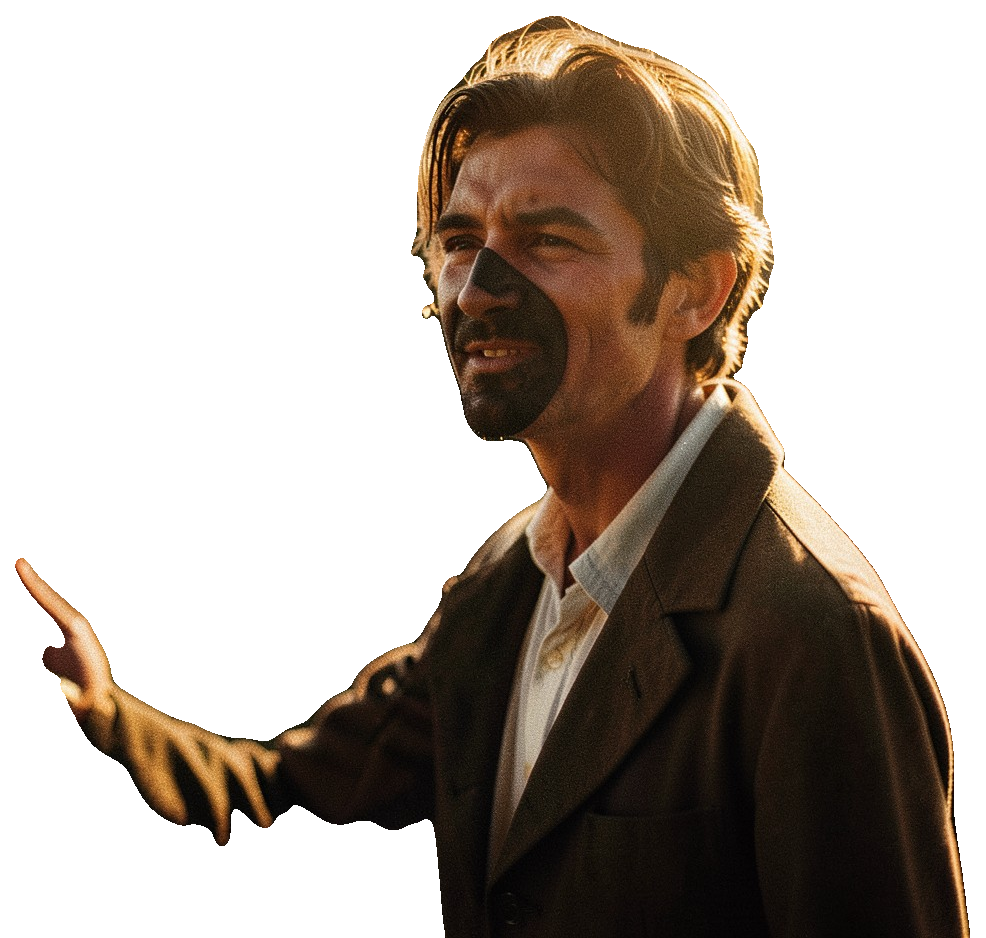
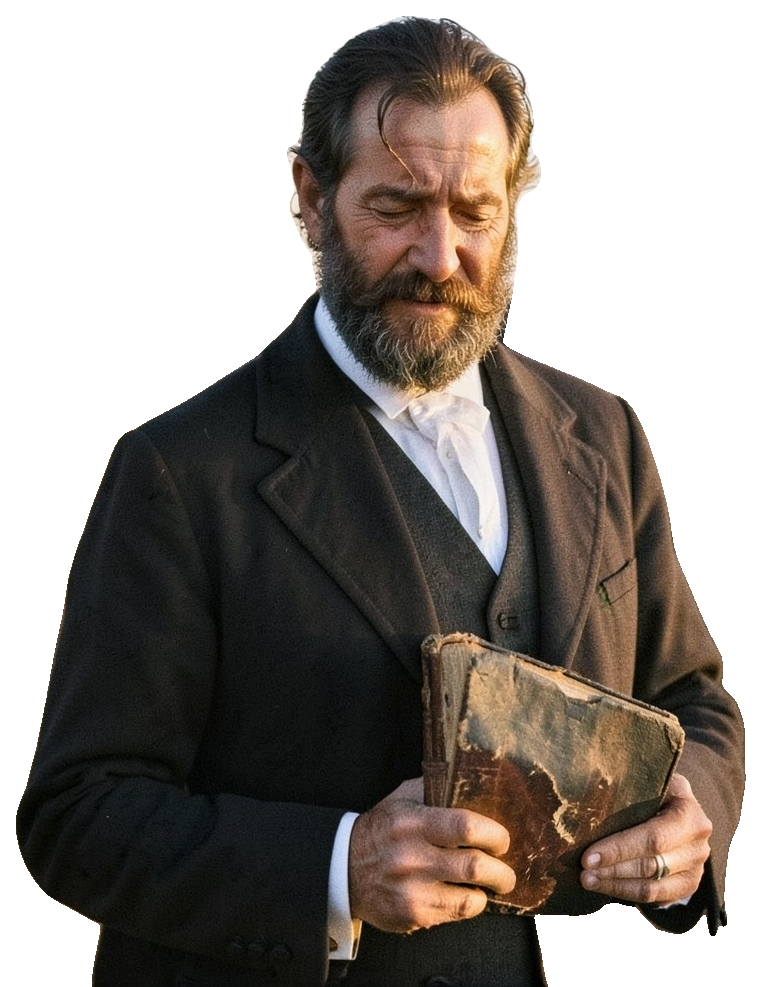
fix(march): book-specific thumbnail; make step 8 survive a busy machine
Thumbnail was generated from the mojibake'd generic fallback subject, so the hero was
an off-book modern figure, rembg blew a black hole through its face, and the
two-subject-vs layout mirrored that into a duplicate. Rewrote the subject for the book
(1860s frock coat + worn book, war words removed - "battlefield aftermath" was
CONTENT_FILTERED 4/4 by Flux), pinned layout=portrait-right for a single figure, and
set the hook to CERTAINTY HAS A PRICE (the fallback was "MARCH BROOKS": the title, not
a hook).

make-book step 8 now runs with --puppeteer-timeout=120000 and step() takes a bounded
`retries`. The default 25s browser launch times out on this GPU-less box under load,
and step 8 is optional:true - so an unattended run silently shipped no thumbnail at
all. That is exactly what happened here.

March is YOUTUBE-READY: out/march.mp4 35.2min, verified; pack complete.

diff --git a/scripts/make-book.js b/scripts/make-book.js
@@ -166,19 +166,31 @@ if (ENGINE === "antidote") {
 const CFG = rel.voxConfig(SLUG);
 const META = rel.youtubeMeta(SLUG);
 
-function step(n, label, cmd, { optional = false } = {}) {
+function step(n, label, cmd, { optional = false, retries = 0 } = {}) {
   console.log(`\n── [${n}] ${label}`);
   console.log(`   $ ${cmd}`);
-  try {
-    execSync(cmd, { cwd: ROOT, stdio: "inherit" });
-    return true;
-  } catch (e) {
-    if (optional) {
-      console.warn(`   ⚠ atlandı (hata): ${label}`);
-      return false;
+  for (let attempt = 1; ; attempt++) {
+    try {
+      execSync(cmd, { cwd: ROOT, stdio: "inherit" });
+      return true;
+    } catch (e) {
+      // `retries` is for steps that fail for TRANSIENT reasons, not wrong input —
+      // chiefly the Remotion browser launch, which times out when the machine is
+      // busy (this box is GPU-less and often has a Studio/dev server up). Retrying
+      // is the difference between an unattended run producing the thumbnail and
+      // silently skipping it.
+      if (attempt <= retries) {
+        console.warn(`   ⚠ başarısız — ${attempt}/${retries} yeniden deneniyor (10s)...`);
+        Atomics.wait(new Int32Array(new SharedArrayBuffer(4)), 0, 0, 10000);
+        continue;
+      }
+      if (optional) {
+        console.warn(`   ⚠ atlandı (hata): ${label}`);
+        return false;
+      }
+      console.error(`\n❌ ADIM BAŞARISIZ: ${label}`);
+      process.exit(1);
     }
-    console.error(`\n❌ ADIM BAŞARISIZ: ${label}`);
-    process.exit(1);
   }
 }
 
@@ -259,8 +271,11 @@ step(7, "Kompozisyon kaydı", `node scripts/gen-books-registry.js`);
 
 // 8) composite thumbnail PNG (local still; NO --gl=angle — that flag times out the
 //    browser launch on this GPU-less machine). Needs Thumb-<slug> from step 7.
+//    --puppeteer-timeout: the default 25s browser launch times out on this GPU-less
+//    machine whenever it is under load (a Studio/dev server up, or a render finishing),
+//    which silently skipped the thumbnail. 120s + 2 retries makes it survive that.
 const THUMB_PNG = `out/thumbnail-${SLUG}.png`;
-step(8, "Thumbnail PNG (Remotion still)", `npx remotion still Thumb-${SLUG} ${THUMB_PNG} --frame=0`, { optional: true });
+step(8, "Thumbnail PNG (Remotion still)", `npx remotion still Thumb-${SLUG} ${THUMB_PNG} --frame=0 --puppeteer-timeout=120000`, { optional: true, retries: 2 });
 
 // 9) per-book hub index (books/<slug>/README.md linking every deliverable)
 step(9, "Kitap hub index (books/<slug>/README.md)", `node scripts/gen-book-readme.js ${SLUG}`, { optional: true });

diff --git a/AGENT_LOG.md b/AGENT_LOG.md
@@ -21,7 +21,7 @@ Conventions:
 |---|---|---|---|
 | worker-orchestrator | `scripts/render.js` (multi-worker REST dispatch), `render-accounts.json`, `.github/workflows/render-video.yml` | landed (local, unpushed commits up to b7a04c0) | pooled GitHub-Actions render across accounts; round-robin |
 | antidote-pipeline | download+cleanup half of the pool (`scripts/render-github-{download,cleanup}.js`, `scripts/lib/render-pool.js`), coordination log | landed | done; not pushed to origin (local commit on top of worker-orchestrator's b7a04c0) |
-| render-isolation | `scripts/lib/render-bundle.js` (NEW), `scripts/render.js` (github dispatch + preflight), `scripts/render-github-redispatch.js` | landed (uncommitted) | dispatch pushes a per-book ORPHAN bundle instead of the shared `god-mode` branch — see 2026-09-04 changelog. `march` rendering across 7 workers. |
+| _(none — render-isolation finished; see 2026-09-04 changelog entries)_ | | | |
 
 _(clear your row when you stop; move the summary into the Changelog below.)_
 

diff --git a/books/march/youtube.md b/books/march/youtube.md
@@ -49,7 +49,7 @@ March summary, March Geraldine Brooks, Geraldine Brooks, March explained, March 
 
 ## Thumbnail
 - File: `out/thumbnail-march.png` (1280x720)
-- Overlay hook (3-4 words, huge/bold/high-contrast, don't repeat the title): **THE COST OF BEING RIGHT**
+- Overlay hook (3-4 words, huge/bold/high-contrast, don't repeat the title): **CERTAINTY HAS A PRICE**
 - Subject: Civil War-era man in a Union chaplain coat, standing alone amid battlefield aftermath, warm sepia tones
 
 ## Upload checklist
